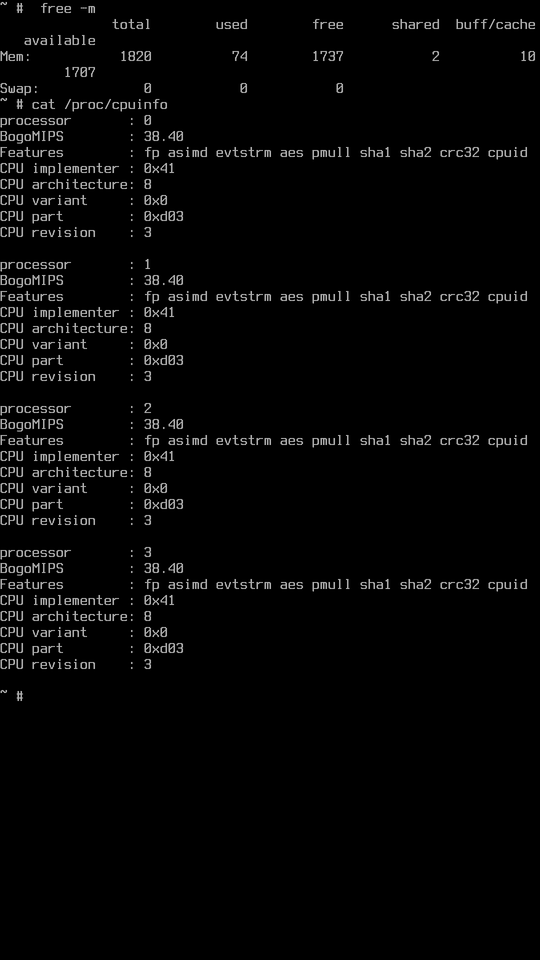
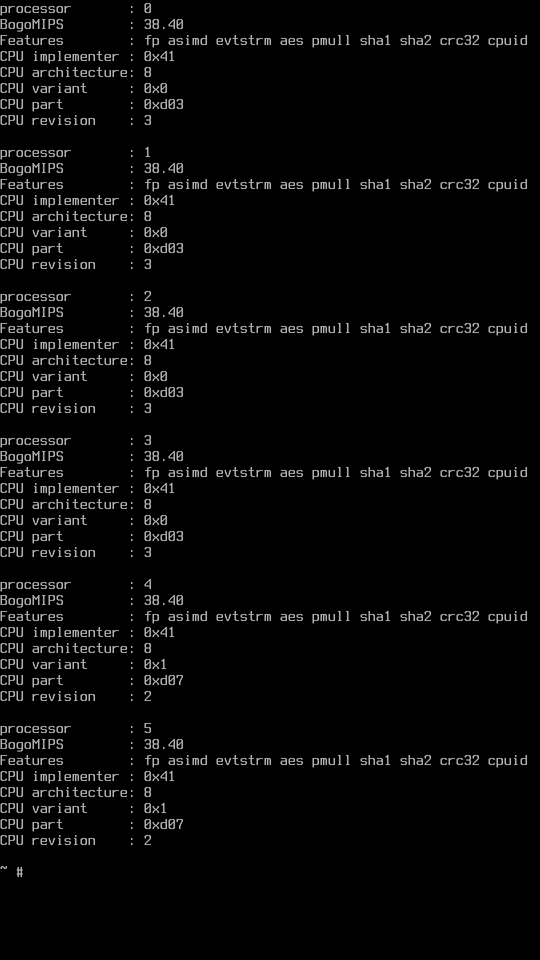
All 6 cores: A57s at 600 MHz, README and screenshots updated
The A57 cluster (CPU4-5) comes up at late init like the A53s: its L2 is
powered first and its clock mux set to GPLL0 (600 MHz) as 3.10 does before
smp_init (patch 0008). The A57s join with arm64.late_cpu_conflicts=warn
(patch 0009, from oneplus2-mainline), so they run without the Spectre-v2
mitigation and A57 errata workarounds the A53-only boot did not enable.

Screenshots retaken on a six-core boot, plus top's per-core view.

diff --git a/README.md b/README.md
@@ -7,17 +7,17 @@
 > who knows these drivers. Read it as notes from an experiment, not a reference,
 > and use it at your own risk (`fastboot boot` only, never flash it).
 
-> **Work in progress.** Display and 4 of the 6 cores work; much of the phone does not yet (see the table below).
+> **Work in progress.** Display and all 6 cores work; much of the phone does not yet (see the table below).
 
 The LG Nexus 5X (bullhead, Snapdragon 808 / MSM8992) running a kernel.org
 6.12 LTS kernel (plain upstream stable, not Android's ACK/GKI) with a static
-BusyBox userspace. It has the real MDP5/DSI display driver and 4 CPU cores.
+BusyBox userspace. It has the real MDP5/DSI display driver and all 6 CPU cores.
 Nothing gets flashed: `fastboot boot` loads it into RAM, and a reboot goes
 back to whatever is installed.
 
-| Status screen (tty1) | BusyBox shell on the panel | `cat /proc/cpuinfo` |
-|:---:|:---:|:---:|
-| <img src="screenshots/status.png" width="260"> | <img src="screenshots/shell.png" width="260"> | <img src="screenshots/cpuinfo.png" width="260"> |
+| Status screen (tty1) | BusyBox shell on the panel | `cat /proc/cpuinfo` | `top`, per-core view (`1`) |
+|:---:|:---:|:---:|:---:|
+| <img src="screenshots/status.png" width="260"> | <img src="screenshots/shell.png" width="260"> | <img src="screenshots/cpuinfo.png" width="260"> | <img src="screenshots/top.png" width="260"> |
 
 The screenshots are copied straight from `/dev/fb0` on the phone (`cat /dev/fb0 | nc`).
 The trace on the status screen is a harmless backlight-driver warning (see below).
@@ -28,15 +28,15 @@ Tested on a rev_1.0 board (LGH791, bootloader BHZ32c).
 | | Part | Notes |
 |---|---|---|
 | ✅ | Boot with `fastboot boot` (RAM only) | Image 26 MiB, under the bootloader's ~29.5 MiB limit |
-| ✅ | 4 × Cortex-A53 (CPU0-3) | They run at the clock the bootloader set |
+| ✅ | 4 × Cortex-A53 (CPU0-3) | At the 768 MHz the bootloader set |
+| ✅ | 2 × Cortex-A57 (CPU4-5) | Fixed at 600 MHz (GPLL0), the stock 3.10 boot-time clock. They join late with `arm64.late_cpu_conflicts=warn`, so they run without their Spectre-v2 mitigation and A57 errata workarounds (832075 can rarely hang the CPU) |
 | ✅ | Display: MDP5 1.10 + DSI + JD35695B panel driver | Framebuffer console with a 16×32 font (67×60 characters) |
 | ✅ | Backlight (PMI8994 WLED) | Stock limits: 15 mA per string, 29.5 V OVP |
 | ✅ | USB network (NCM) + telnet | `telnet 172.16.42.1`. `conspy 2` lets you type into the shell on the panel |
 | ✅ | eMMC detected, pstore/ramoops, QEMU `virt` | eMMC is never mounted or written |
-| ⚠ | Display on every boot | About 1 boot in 5 the RPM (SMD) does not answer. Then there are no RPM regulators, and the panel stays on the bootloader's framebuffer |
+| ⚠ | Display on every boot | About 1 boot in 6 the RPM (SMD) does not answer. Then there are no RPM regulators, and the panel stays frozen on the bootloader's Google logo (telnet still works). A `reboot` from such a boot can hang: hold Power, then Power + Volume down |
 | ⚠ | Boot-time `WARNING` from `wled_ovp_work` | An unbalanced `enable_irq`, because the bootloader leaves the backlight on. Cosmetic |
-| ❌ | 2 × Cortex-A57 (CPU4-5) | Need the cluster clock (3.10 `clock-cpu-8994`), CPR and a thermal driver first |
-| ❌ | CPU frequency scaling, TSENS thermal | Not in mainline for 8992/8994 |
+| ❌ | CPU frequency scaling, CPR, TSENS thermal | Not in mainline for 8992/8994. Needs 3.10 `clock-cpu-8994` and `cpr-regulator` ported |
 | ❌ | GPU (Adreno 418), IOMMU | Scanout uses a contiguous carveout instead |
 | ❌ | Touch, Wi-Fi/BT, modem, audio, camera, sensors, battery/charging | Not attempted |
 
@@ -46,11 +46,20 @@ Mainline already has a bullhead device tree, but on its own that only reaches
 a shell on CPU0. These are the extra pieces:
 
 1. **No PSCI in the firmware**, so mainline can't start the other cores.
-   Patches 0001 and 0003 bring them up the 3.10 way instead (the
-   `qcom,8994-arm-cortex-acc` method). The cold-boot address is handed to
-   TrustZone over SCM in AArch64 state, then each core's ACC power, clamps and
-   reset are released. SCM isn't ready at `smp_init`, so CPU1-3 come online at
-   `late_initcall`.
+   Patches 0001, 0003, 0008 and 0009 bring them up the 3.10 way instead (the
+   `qcom,8994-arm-cortex-acc` method):
+   * The cold-boot address is handed to TrustZone over SCM, in AArch64 state.
+   * Each core's ACC power, clamps and reset are released.
+   * For the A57s, the cluster L2 is powered up first. Their clock mux is set to
+     GPLL0 (600 MHz) before that (0008), as 3.10's
+     `cpu_clock_8994_init_a57_v2()` does; the bootloader leaves it on the
+     19.2 MHz reference.
+   * SCM isn't ready at `smp_init`, so CPU1-5 come online at `late_initcall`.
+     The system's CPU capabilities were already decided by the A53s, so
+     mainline would refuse the A57s. 0009 adds `arm64.late_cpu_conflicts=warn`
+     to let them in without those mitigations. Starting the cores from
+     `smp_init` instead (with an early SCM call) made the RPM link fail on
+     every boot.
 2. **No 20nm DSI PLL driver**, so the display PLL the bootloader (LK) left
    running is kept as it is:
    * 0002 keeps the MDSS power domain on.
@@ -67,17 +76,18 @@ a shell on CPU0. These are the extra pieces:
 5. **No IOMMU**, so the display scans out of a contiguous carveout
    (`msm.vram=32m cma=96M`).
 6. **Command line**: `clk_ignore_unused pd_ignore_unused regulator_ignore_unused`
-   so nothing the bootloader set up gets switched off, and
-   `fbcon=font:TER16x32` so the console is readable on a 1080-pixel panel.
+   so nothing the bootloader set up gets switched off,
+   `fbcon=font:TER16x32` so the console is readable on a 1080-pixel panel, and
+   `arm64.late_cpu_conflicts=warn` for the A57s.
 7. **Device tree values**: the WLED OVP comes from the PMI8994 table (29.5 V),
    and the DSI supplies (L2, L12, L28) come from the 3.10 dtsi.
 8. **Size diet** (`scripts/kernel.config`): everything is built in and there
    are no modules, so the image fits the bootloader's load window.
 
-Patches 0001-0004 come from
+Patches 0001-0004 and 0009 come from
 [oneplus2-mainline](https://github.com/luvingiane/oneplus2-mainline)
 (OnePlus 2, MSM8994, GPL-2.0). Each value was checked against the Nexus 5X's
-own 3.10 kernel source. Patches 0005-0007 are new.
+own 3.10 kernel source. Patches 0005-0008 are new.
 
 ## Build and boot
 
@@ -105,8 +115,8 @@ telnet 172.16.42.1                 # PC side gets 172.16.42.2 over DHCP
 
 | Path | What it is |
 |---|---|
-| `patches/` | The 7 kernel patches above, applied by `scripts/prepare-kernel.sh` |
-| `dts/` | Board files: mainline `msm8992-lg-bullhead`, `bullhead-smp.dtsi` (ACC for CPU1-3), `bullhead-display.dtsi` (MDSS, DSI, panel, WLED) |
+| `patches/` | The 9 kernel patches above, applied by `scripts/prepare-kernel.sh` |
+| `dts/` | Board files: mainline `msm8992-lg-bullhead`, `bullhead-smp.dtsi` (ACC for CPU1-5, A57 L2 and clock mux), `bullhead-display.dtsi` (MDSS, DSI, panel, WLED) |
 | `scripts/kernel.config` | Options built into the kernel, plus the size diet |
 | `rootfs/` | `/init` (mounts, then hands off to BusyBox init), `inittab`, `rcS` (USB gadget, telnetd), status screen, boot report |
 | `scripts/mkbootimg.py` | A ~60-line Android boot image writer |
